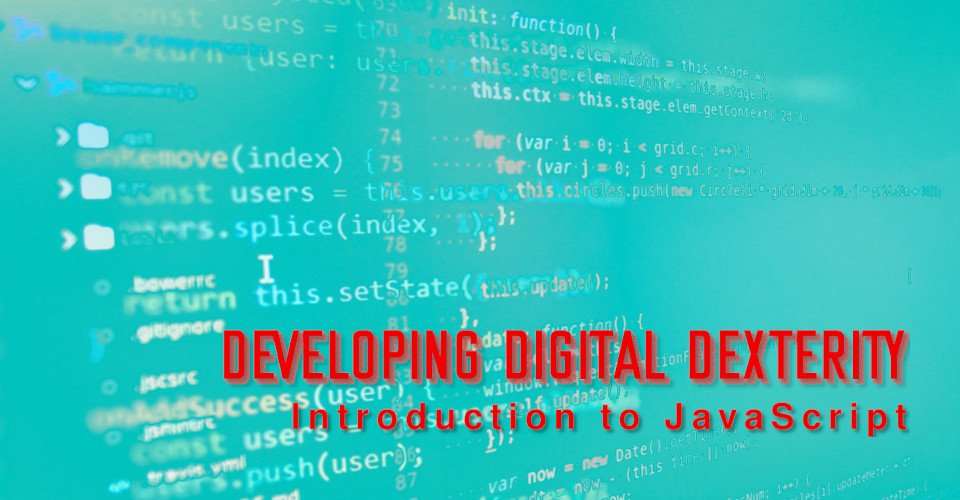
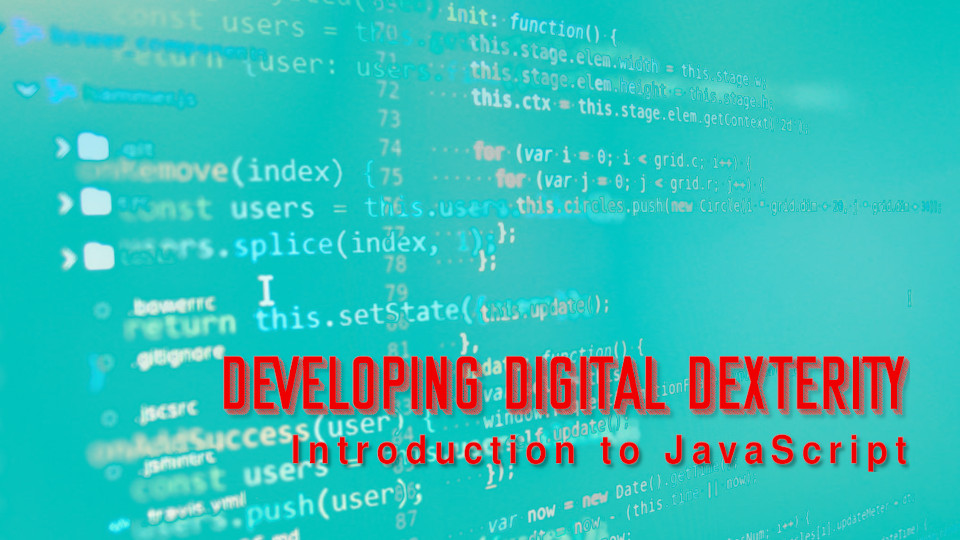
Continue correcting image aspect ratios, conversions.

Changed region(s): [[0.2188, 0.66, 0.5, 0.78], [0.7188, 0.66, 0.9375, 0.78], [0.5312, 0.66, 0.6875, 0.78]]

diff --git a/_workshops/Collaboration Across Universes: Basics of Version Control with Git.md b/_workshops/Collaboration Across Universes: Basics of Version Control with Git.md
@@ -1,6 +1,6 @@
 ---
 title: "Collaboration Across Universes: Basics of Version Control with Git"
-image: static/images/workshop.collaboration-across-universes-basics-of-version-control-with-git.square.png
+image: static/images/workshop.collaboration-across-universes-basics-of-version-control-with-git.square.jpg
 simple_description: Whenever you work on a project, like writing a computer program or designing a new poster, it's helpful to have a history of all the changes you made so that you can go back to a previous version if you need to undo a mistake or want to try going in a different direction without throwing away the work you've already done. One of the most powerful tools for doing this is called Git, which is the Free Software program that makes popular Web and code hosting sites like GitHub.com so versatile. This workshop will show you how to use Git so that you can save different versions of your projects without resorting to filenames like "my-project-draft-1" or "my-project-draft-2," share specific revisions of your work with others, and make it easy to merge your work with the work other people do if they're also using Git.
 ---
 

diff --git a/_events/workshop-2020-02-19-collaboration-across-universes-basics-of-version-control-with-git.md b/_events/workshop-2020-02-19-collaboration-across-universes-basics-of-version-control-with-git.md
@@ -6,7 +6,7 @@ date: *startDate
 location: Remote
 payment_processor: paypal
 webinar_id: 10
-image: static/images/workshop.collaboration-across-universes-basics-of-version-control-with-git.rectangle.png
+image: static/images/workshop.collaboration-across-universes-basics-of-version-control-with-git.rectangle.jpg
 offers:
     - name: Privacy Defender Webinar Ticket
       description: Privacy Defender tickets are the recommended ticket type for those who can afford to help fund the digital security and online privacy advocacy communities with their financial resources, are attending the workshop with the support of their employers or other backers, or have other resources available to them. Purchasing tickets at this level makes it possible for us to offer reduced price tickets to those in need.

diff --git a/_events/workshop-2020-04-09-collaboration-across-universes-basics-of-version-control-with-git.md b/_events/workshop-2020-04-09-collaboration-across-universes-basics-of-version-control-with-git.md
@@ -6,7 +6,7 @@ date: *startDate
 location: Remote
 payment_processor: paypal
 webinar_id: 31
-image: static/images/workshop.collaboration-across-universes-basics-of-version-control-with-git.rectangle.png
+image: static/images/workshop.collaboration-across-universes-basics-of-version-control-with-git.rectangle.jpg
 offers:
     - name: Privacy Defender Webinar Ticket
       description: Privacy Defender tickets are the recommended ticket type for those who can afford to help fund the digital security and online privacy advocacy communities with their financial resources, are attending the workshop with the support of their employers or other backers, or have other resources available to them. Purchasing tickets at this level makes it possible for us to offer reduced price tickets to those in need.

diff --git a/_events/workshop-2020-06-11-collaboration-across-universes-basics-of-version-control-with-git.md b/_events/workshop-2020-06-11-collaboration-across-universes-basics-of-version-control-with-git.md
@@ -6,7 +6,7 @@ date: *startDate
 location: Remote
 payment_processor: paypal
 webinar_id: 57
-image: static/images/workshop.collaboration-across-universes-basics-of-version-control-with-git.rectangle.png
+image: static/images/workshop.collaboration-across-universes-basics-of-version-control-with-git.rectangle.jpg
 offers:
     - name: Privacy Defender Webinar Ticket
       description: Privacy Defender tickets are the recommended ticket type for those who can afford to help fund the digital security and online privacy advocacy communities with their financial resources, are attending the workshop with the support of their employers or other backers, or have other resources available to them. Purchasing tickets at this level makes it possible for us to offer reduced price tickets to those in need.

diff --git a/_events/workshop-2020-02-03-collaboration-across-universes-basics-of-version-control-with-git.md b/_events/workshop-2020-02-03-collaboration-across-universes-basics-of-version-control-with-git.md
@@ -6,7 +6,7 @@ date: *startDate
 location: Remote
 payment_processor: paypal
 webinar_id: 4
-image: static/images/workshop.collaboration-across-universes-basics-of-version-control-with-git.rectangle.png
+image: static/images/workshop.collaboration-across-universes-basics-of-version-control-with-git.rectangle.jpg
 offers:
     - name: Privacy Defender Webinar Ticket
       description: Privacy Defender tickets are the recommended ticket type for those who can afford to help fund the digital security and online privacy advocacy communities with their financial resources, are attending the workshop with the support of their employers or other backers, or have other resources available to them. Purchasing tickets at this level makes it possible for us to offer reduced price tickets to those in need.
